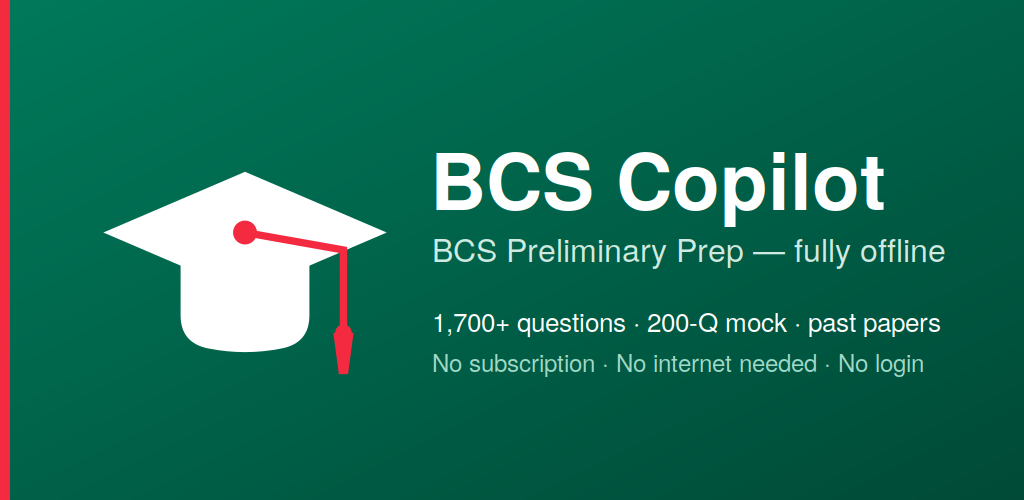
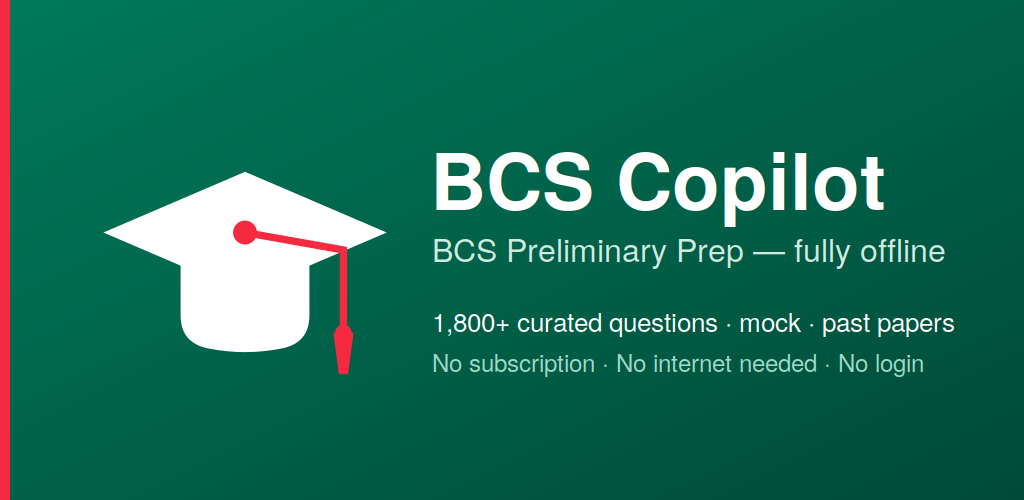
Update marketing to 1,800+ meticulously curated (bank crossed 1,800)
- Paywall lead benefit: 'All 1,800+ meticulously curated questions'
- STORE_LISTING: 1,800+ verified MCQs, 'every answer verified, zero
  duplicates', note 360+ previous-year
- Feature graphic: '1,800+ curated questions · mock · past papers'
Honest framing — leads with curation/quality, not raw volume.

Changed region(s): [[0.5, 0.63, 0.9375, 0.69], [0.4375, 0.63, 0.4688, 0.66]]

diff --git a/src/monetization/config.js b/src/monetization/config.js
@@ -18,7 +18,7 @@ export const FREE_QUESTIONS_PER_CATEGORY = 10;
 export const FREE_MOCK_COUNTS = [25];
 
 export const PREMIUM_BENEFITS = [
-  'All 1,700+ questions across every subject',
+  'All 1,800+ meticulously curated questions',
   'Previous-year questions from past BCS exams',
   'Full 200-question mock exam (real BCS format)',
   '50 & 100-question practice mocks',

diff --git a/STORE_LISTING.md b/STORE_LISTING.md
@@ -7,7 +7,7 @@ BCS Copilot
 BCS Prelim Prep, Offline
 
 ## Short description (Google Play, max 80 chars)
-Offline BCS prelim prep: 1,400+ MCQs, full mock exams & analytics.
+Offline BCS prelim prep: 1,800+ verified MCQs, previous-year sets & mocks.
 
 ## Full description
 Prepare for the BCS Preliminary examination anywhere — no internet needed.
@@ -16,7 +16,8 @@ BCS Copilot is a clean, distraction-free practice app built around how the real
 exam works: 200 marks, 200 MCQs, two hours, with negative marking.
 
 WHAT YOU GET
-• 1,400+ practice questions across all 10 subjects — Bangla, English,
+• 1,800+ meticulously curated questions across all 10 subjects — every
+  answer verified, zero duplicates — Bangla, English,
   Bangladesh Affairs, International Affairs, Geography, Science, ICT,
   Mathematical Reasoning, Mental Ability and Ethics.
 • Full 200-question mock exam in the real BCS format — two-hour timer and
@@ -39,7 +40,7 @@ independent app and is not affiliated with or endorsed by the Bangladesh Public
 Service Commission (BPSC) or any government body.
 
 ## What's new (v1.0.0)
-First release: 1,400+ questions, full and quick mock exams with negative
+First release: 1,800+ curated questions (incl. 360+ previous-year), full and quick mock exams with negative
 marking, topic practice, and performance analytics.
 
 ## Category
